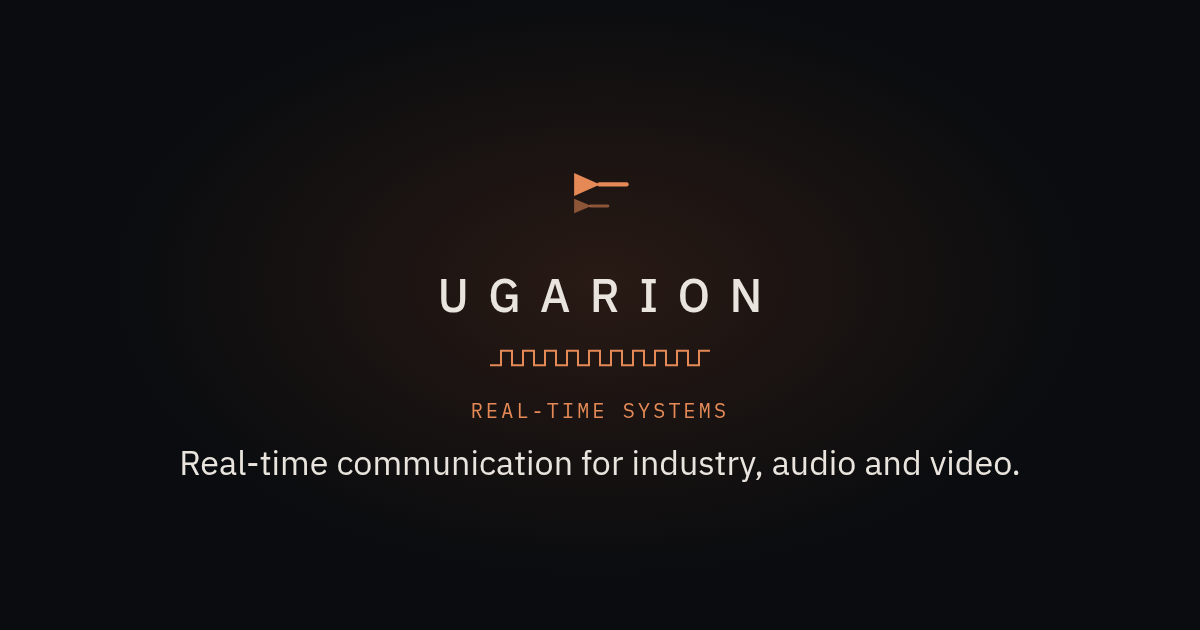
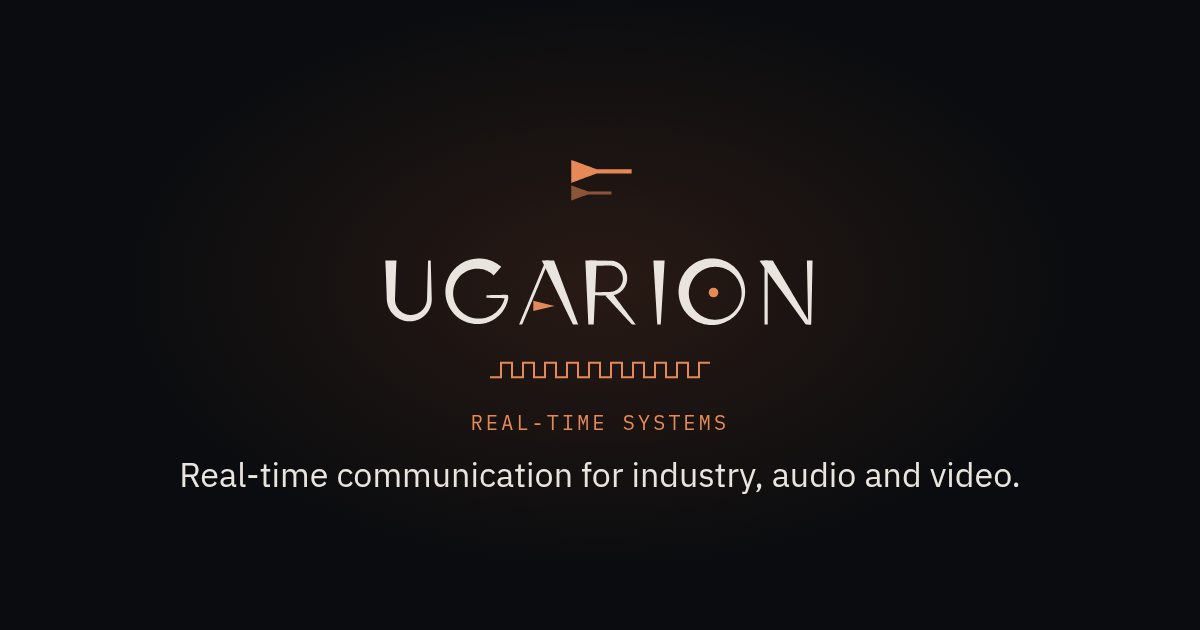
New brand: Keilschrift wordmark and two-wedge symbol
Wordmark and symbol from 08_Marke (inline SVG on the holding page,
wordmark.svg on legal pages), favicon, 404 page and og.png updated.

diff --git a/index.html b/index.html
@@ -22,8 +22,8 @@
 <main class="stage">
   <div class="card wide">
     <p class="launch">New website · coming soon</p>
-    <svg class="mark" viewBox="0 0 64 64" aria-hidden="true"><path d="M14 18 L32 26 L14 34 Z" fill="#e58a57"/><rect x="30" y="24.5" width="22" height="3" rx="1.5" fill="#e58a57"/><path d="M14 36 L26 41 L14 46 Z" fill="#e58a57" opacity=".55"/><rect x="24.5" y="40" width="14" height="2" rx="1" fill="#e58a57" opacity=".55"/></svg>
-    <h1 class="word">UGARION</h1>
+    <svg class="mark" viewBox="0 0 64 64" aria-hidden="true"><path d="M12.00 34.00 L13.05 33.61 L14.10 33.23 L15.15 32.84 L16.20 32.45 L17.25 32.07 L18.30 31.68 L19.35 31.29 L20.40 30.90 L21.45 30.52 L22.50 30.13 L23.55 29.74 L24.60 29.36 L25.65 28.97 L26.70 28.58 L27.75 28.20 L28.80 27.81 L29.85 27.50 L30.90 27.50 L31.95 27.50 L33.00 27.50 L34.05 27.50 L35.10 27.50 L36.15 27.50 L37.20 27.50 L38.25 27.50 L39.30 27.50 L40.35 27.50 L41.40 27.50 L42.45 27.50 L43.50 27.50 L44.55 27.50 L45.60 27.50 L46.65 27.50 L47.70 27.50 L48.75 27.50 L49.80 27.50 L50.85 27.50 L51.90 27.50 L52.95 27.50 L54.00 27.50 L54.00 24.50 L52.95 24.50 L51.90 24.50 L50.85 24.50 L49.80 24.50 L48.75 24.50 L47.70 24.50 L46.65 24.50 L45.60 24.50 L44.55 24.50 L43.50 24.50 L42.45 24.50 L41.40 24.50 L40.35 24.50 L39.30 24.50 L38.25 24.50 L37.20 24.50 L36.15 24.50 L35.10 24.50 L34.05 24.50 L33.00 24.50 L31.95 24.50 L30.90 24.50 L29.85 24.50 L28.80 24.19 L27.75 23.80 L26.70 23.42 L25.65 23.03 L24.60 22.64 L23.55 22.26 L22.50 21.87 L21.45 21.48 L20.40 21.10 L19.35 20.71 L18.30 20.32 L17.25 19.93 L16.20 19.55 L15.15 19.16 L14.10 18.77 L13.05 18.39 L12.00 18.00 Z" fill="#e58a57"/><path d="M12.00 46.25 L12.70 46.00 L13.40 45.74 L14.10 45.49 L14.80 45.24 L15.50 44.99 L16.20 44.73 L16.90 44.48 L17.60 44.23 L18.30 43.97 L19.00 43.72 L19.70 43.47 L20.40 43.21 L21.10 42.96 L21.80 42.71 L22.50 42.46 L23.20 42.20 L23.90 42.00 L24.60 42.00 L25.30 42.00 L26.00 42.00 L26.70 42.00 L27.40 42.00 L28.10 42.00 L28.80 42.00 L29.50 42.00 L30.20 42.00 L30.90 42.00 L31.60 42.00 L32.30 42.00 L33.00 42.00 L33.70 42.00 L34.40 42.00 L35.10 42.00 L35.80 42.00 L36.50 42.00 L37.20 42.00 L37.90 42.00 L38.60 42.00 L39.30 42.00 L40.00 42.00 L40.00 40.00 L39.30 40.00 L38.60 40.00 L37.90 40.00 L37.20 40.00 L36.50 40.00 L35.80 40.00 L35.10 40.00 L34.40 40.00 L33.70 40.00 L33.00 40.00 L32.30 40.00 L31.60 40.00 L30.90 40.00 L30.20 40.00 L29.50 40.00 L28.80 40.00 L28.10 40.00 L27.40 40.00 L26.70 40.00 L26.00 40.00 L25.30 40.00 L24.60 40.00 L23.90 40.00 L23.20 39.80 L22.50 39.54 L21.80 39.29 L21.10 39.04 L20.40 38.79 L19.70 38.53 L19.00 38.28 L18.30 38.03 L17.60 37.77 L16.90 37.52 L16.20 37.27 L15.50 37.01 L14.80 36.76 L14.10 36.51 L13.40 36.26 L12.70 36.00 L12.00 35.75 Z" fill="#e58a57" opacity=".55"/></svg>
+    <h1 class="word"><svg viewBox="-8 -10 686 122" class="wm" role="img" aria-label="UGARION"><defs><clipPath id="ug-cap"><rect x="-20" y="0" width="710" height="100"/></clipPath></defs><g fill="#e9e5de" clip-path="url(#ug-cap)"><path transform="translate(0.0 0)" d="M0.00 -4.00 L0.17 -1.87 L0.30 0.27 L0.41 2.40 L0.52 4.53 L0.62 6.67 L0.71 8.80 L0.81 10.93 L0.90 13.07 L0.99 15.20 L1.07 17.33 L1.16 19.47 L1.24 21.60 L1.32 23.73 L1.41 25.87 L1.49 28.00 L1.56 30.13 L1.64 32.27 L1.72 34.40 L1.79 36.53 L1.87 38.67 L1.94 40.80 L2.02 42.93 L2.09 45.07 L2.16 47.20 L2.23 49.33 L2.31 51.47 L2.38 53.60 L2.45 55.73 L2.52 57.87 L2.59 60.07 L2.69 61.90 L2.89 63.80 L3.18 65.67 L3.58 67.53 L4.07 69.36 L4.65 71.16 L5.33 72.92 L6.10 74.65 L6.95 76.33 L7.89 77.96 L8.92 79.54 L10.02 81.06 L11.20 82.51 L12.45 83.90 L13.77 85.23 L15.16 86.48 L16.61 87.65 L18.11 88.75 L19.67 89.76 L21.28 90.69 L22.93 91.54 L24.62 92.29 L26.35 92.96 L28.11 93.53 L29.89 94.01 L31.69 94.39 L33.51 94.68 L35.33 94.88 L37.17 94.98 L39.00 94.98 L40.83 94.89 L42.65 94.70 L44.45 94.41 L46.24 94.04 L47.99 93.57 L49.73 93.01 L51.42 92.36 L53.08 91.63 L54.70 90.81 L56.27 89.90 L57.78 88.92 L59.24 87.86 L60.65 86.73 L61.99 85.53 L63.26 84.26 L64.47 82.93 L65.60 81.54 L66.65 80.09 L67.63 78.59 L68.53 77.05 L69.34 75.46 L70.07 73.83 L70.71 72.17 L71.26 70.48 L71.72 68.77 L72.10 67.03 L72.38 65.29 L72.57 63.53 L72.66 61.76 L72.67 60.04 L72.61 57.87 L72.55 55.73 L72.49 53.60 L72.44 51.47 L72.38 49.33 L72.32 47.20 L72.27 45.07 L72.21 42.93 L72.15 40.80 L72.10 38.67 L72.04 36.53 L71.99 34.40 L71.93 32.27 L71.87 30.13 L71.82 28.00 L71.76 25.87 L71.71 23.73 L71.65 21.60 L71.60 19.47 L71.54 17.33 L71.49 15.20 L71.43 13.07 L71.38 10.93 L71.32 8.80 L71.27 6.67 L71.22 4.53 L71.16 2.40 L71.11 0.27 L71.05 -1.87 L71.00 -4.00 L67.00 -4.00 L66.95 -1.87 L66.89 0.27 L66.84 2.40 L66.78 4.53 L66.73 6.67 L66.68 8.80 L66.62 10.93 L66.57 13.07 L66.51 15.20 L66.46 17.33 L66.40 19.47 L66.35 21.60 L66.29 23.73 L66.24 25.87 L66.18 28.00 L66.13 30.13 L66.07 32.27 L66.01 34.40 L65.96 36.53 L65.90 38.67 L65.85 40.80 L65.79 42.93 L65.73 45.07 L65.68 47.20 L65.62 49.33 L65.56 51.47 L65.51 53.60 L65.45 55.73 L65.39 57.87 L65.33 59.96 L65.26 61.38 L65.11 62.74 L64.88 64.10 L64.59 65.44 L64.23 66.76 L63.80 68.06 L63.31 69.33 L62.75 70.57 L62.12 71.78 L61.44 72.95 L60.69 74.09 L59.89 75.18 L59.03 76.22 L58.12 77.22 L57.16 78.16 L56.16 79.06 L55.11 79.90 L54.02 80.68 L52.90 81.40 L51.73 82.06 L50.54 82.65 L49.32 83.19 L48.08 83.65 L46.82 84.05 L45.53 84.39 L44.24 84.65 L42.94 84.85 L41.62 84.97 L40.31 85.03 L39.00 85.02 L37.69 84.94 L36.39 84.79 L35.11 84.58 L33.84 84.29 L32.58 83.95 L31.35 83.53 L30.15 83.06 L28.97 82.52 L27.83 81.92 L26.72 81.27 L25.65 80.56 L24.62 79.79 L23.63 78.98 L22.69 78.11 L21.80 77.20 L20.96 76.24 L20.17 75.25 L19.44 74.21 L18.76 73.14 L18.14 72.04 L17.59 70.91 L17.09 69.76 L16.65 68.58 L16.28 67.38 L15.98 66.17 L15.73 64.95 L15.56 63.71 L15.44 62.48 L15.40 61.24 L15.41 59.93 L15.48 57.87 L15.55 55.73 L15.62 53.60 L15.69 51.47 L15.77 49.33 L15.84 47.20 L15.91 45.07 L15.98 42.93 L16.06 40.80 L16.13 38.67 L16.21 36.53 L16.28 34.40 L16.36 32.27 L16.44 30.13 L16.51 28.00 L16.59 25.87 L16.68 23.73 L16.76 21.60 L16.84 19.47 L16.93 17.33 L17.01 15.20 L17.10 13.07 L17.19 10.93 L17.29 8.80 L17.38 6.67 L17.48 4.53 L17.59 2.40 L17.70 0.27 L17.83 -1.87 L18.00 -4.00 Z"/><path transform="translate(208.0 0)" d="M36.03 -0.45 L37.75 3.08 L39.46 6.61 L41.18 10.14 L42.89 13.66 L44.61 17.19 L46.32 20.72 L48.04 24.25 L49.75 27.77 L51.47 31.30 L53.18 34.83 L54.90 38.36 L56.61 41.88 L58.33 45.41 L60.04 48.94 L61.76 52.47 L63.47 55.99 L65.19 59.52 L66.90 63.05 L68.62 66.58 L70.33 70.11 L72.05 73.63 L73.76 77.16 L75.48 80.69 L77.19 84.22 L78.91 87.74 L80.62 91.27 L82.34 94.80 L84.05 98.33 L85.77 101.85 L87.48 105.38 L93.92 102.62 L92.54 98.95 L91.16 95.27 L89.78 91.60 L88.40 87.93 L87.02 84.26 L85.65 80.58 L84.27 76.91 L82.89 73.24 L81.51 69.57 L80.13 65.89 L78.76 62.22 L77.38 58.55 L76.00 54.88 L74.62 51.21 L73.24 47.53 L71.86 43.86 L70.49 40.19 L69.11 36.52 L67.73 32.84 L66.35 29.17 L64.97 25.50 L63.59 21.83 L62.22 18.15 L60.84 14.48 L59.46 10.81 L58.08 7.14 L56.70 3.46 L55.33 -0.21 L53.95 -3.88 L52.57 -7.55 Z"/><path transform="translate(208.0 0)" d="M43.62 -2.86 L41.42 2.44 L39.21 7.74 L37.01 13.04 L34.80 18.34 L32.60 23.64 L30.39 28.94 L28.19 34.24 L25.98 39.54 L23.78 44.84 L21.57 50.14 L19.37 55.44 L17.16 60.74 L14.96 66.04 L12.75 71.34 L10.55 76.64 L8.34 81.94 L6.14 87.24 L3.93 92.54 L1.73 97.84 L-0.48 103.14 L3.68 104.86 L5.88 99.56 L8.09 94.26 L10.29 88.96 L12.50 83.66 L14.70 78.36 L16.91 73.06 L19.11 67.76 L21.32 62.46 L23.52 57.16 L25.73 51.86 L27.93 46.56 L30.14 41.26 L32.34 35.96 L34.55 30.66 L36.75 25.36 L38.96 20.06 L41.16 14.76 L43.37 9.46 L45.57 4.16 L47.78 -1.14 Z"/><path transform="translate(312.0 0)" d="M0.00 -4.00 L0.17 -0.40 L0.33 3.20 L0.50 6.80 L0.67 10.40 L0.83 14.00 L1.00 17.60 L1.17 21.20 L1.33 24.80 L1.50 28.40 L1.67 32.00 L1.83 35.60 L2.00 39.20 L2.17 42.80 L2.33 46.40 L2.50 50.00 L2.67 53.60 L2.83 57.20 L3.00 60.80 L3.17 64.40 L3.33 68.00 L3.50 71.60 L3.67 75.20 L3.83 78.80 L4.00 82.40 L4.17 86.00 L4.33 89.60 L4.50 93.20 L4.67 96.80 L4.83 100.40 L5.00 104.00 L13.00 104.00 L13.17 100.40 L13.33 96.80 L13.50 93.20 L13.67 89.60 L13.83 86.00 L14.00 82.40 L14.17 78.80 L14.33 75.20 L14.50 71.60 L14.67 68.00 L14.83 64.40 L15.00 60.80 L15.17 57.20 L15.33 53.60 L15.50 50.00 L15.67 46.40 L15.83 42.80 L16.00 39.20 L16.17 35.60 L16.33 32.00 L16.50 28.40 L16.67 24.80 L16.83 21.20 L17.00 17.60 L17.17 14.00 L17.33 10.40 L17.50 6.80 L17.67 3.20 L17.83 -0.40 L18.00 -4.00 Z"/><path transform="translate(312.0 0)" d="M6.00 8.50 L8.67 8.46 L11.33 8.41 L14.00 8.37 L16.67 8.33 L19.33 8.28 L22.00 8.24 L24.67 8.20 L27.33 8.16 L30.00 8.11 L32.67 8.07 L35.33 8.03 L37.95 7.98 L39.26 8.00 L40.51 8.09 L41.76 8.27 L43.00 8.52 L44.22 8.85 L45.42 9.25 L46.60 9.73 L47.74 10.29 L48.84 10.91 L49.91 11.61 L50.93 12.37 L51.90 13.20 L52.82 14.08 L53.69 15.02 L54.49 16.02 L55.23 17.07 L55.90 18.16 L56.51 19.29 L57.04 20.46 L57.50 21.66 L57.88 22.89 L58.19 24.15 L58.41 25.42 L58.56 26.71 L58.62 28.00 L58.61 29.30 L58.51 30.59 L58.33 31.88 L58.07 33.15 L57.73 34.41 L57.31 35.65 L56.82 36.85 L56.24 38.03 L55.60 39.17 L54.88 40.27 L54.10 41.32 L53.25 42.32 L52.34 43.27 L51.36 44.15 L50.34 44.98 L49.26 45.74 L48.14 46.44 L46.97 47.06 L45.76 47.61 L44.52 48.08 L43.26 48.47 L41.97 48.79 L40.66 49.02 L39.33 49.17 L37.97 49.23 L35.33 49.28 L32.67 49.32 L30.00 49.36 L27.33 49.41 L24.67 49.45 L22.00 49.49 L19.33 49.53 L16.67 49.58 L14.00 49.62 L11.33 49.66 L8.67 49.71 L6.00 49.75 L6.00 54.25 L8.67 54.29 L11.33 54.34 L14.00 54.38 L16.67 54.42 L19.33 54.47 L22.00 54.51 L24.67 54.55 L27.33 54.59 L30.00 54.64 L32.67 54.68 L35.33 54.72 L38.03 54.77 L39.68 54.74 L41.36 54.60 L43.03 54.36 L44.68 54.02 L46.31 53.57 L47.91 53.02 L49.47 52.37 L50.99 51.63 L52.46 50.78 L53.88 49.85 L55.23 48.83 L56.52 47.72 L57.74 46.54 L58.89 45.28 L59.95 43.95 L60.93 42.55 L61.82 41.09 L62.62 39.58 L63.32 38.02 L63.92 36.42 L64.42 34.78 L64.82 33.12 L65.11 31.42 L65.30 29.72 L65.38 28.00 L65.35 26.28 L65.21 24.56 L64.96 22.86 L64.61 21.17 L64.15 19.50 L63.59 17.87 L62.92 16.27 L62.16 14.72 L61.30 13.21 L60.34 11.77 L59.30 10.38 L58.17 9.06 L56.96 7.81 L55.67 6.64 L54.31 5.56 L52.88 4.56 L51.39 3.65 L49.84 2.83 L48.25 2.12 L46.61 1.50 L44.93 0.99 L43.23 0.58 L41.50 0.29 L39.76 0.10 L38.05 0.02 L35.33 -0.03 L32.67 -0.07 L30.00 -0.11 L27.33 -0.16 L24.67 -0.20 L22.00 -0.24 L19.33 -0.28 L16.67 -0.33 L14.00 -0.37 L11.33 -0.41 L8.67 -0.46 L6.00 -0.50 Z"/><path transform="translate(312.0 0)" d="M31.77 55.52 L33.69 57.59 L35.61 59.67 L37.52 61.74 L39.44 63.81 L41.35 65.89 L43.27 67.96 L45.19 70.03 L47.10 72.11 L49.02 74.18 L50.94 76.25 L52.85 78.33 L54.77 80.40 L56.68 82.47 L58.60 84.55 L60.52 86.62 L62.43 88.69 L64.35 90.77 L66.27 92.84 L68.18 94.91 L70.10 96.99 L72.01 99.06 L73.93 101.13 L75.85 103.21 L77.76 105.28 L80.84 102.72 L79.14 100.46 L77.45 98.20 L75.76 95.94 L74.07 93.68 L72.38 91.42 L70.68 89.16 L68.99 86.90 L67.30 84.64 L65.61 82.38 L63.92 80.12 L62.22 77.86 L60.53 75.60 L58.84 73.34 L57.15 71.08 L55.46 68.82 L53.76 66.56 L52.07 64.30 L50.38 62.04 L48.69 59.78 L46.99 57.52 L45.30 55.26 L43.61 53.00 L41.92 50.74 L40.23 48.48 Z"/><path transform="translate(418.0 0)" d="M0.00 -4.00 L0.22 -0.40 L0.43 3.20 L0.65 6.80 L0.87 10.40 L1.08 14.00 L1.30 17.60 L1.52 21.20 L1.73 24.80 L1.95 28.40 L2.17 32.00 L2.38 35.60 L2.60 39.20 L2.82 42.80 L3.03 46.40 L3.25 50.00 L3.47 53.60 L3.68 57.20 L3.90 60.80 L4.12 64.40 L4.33 68.00 L4.55 71.60 L4.77 75.20 L4.98 78.80 L5.20 82.40 L5.42 86.00 L5.63 89.60 L5.85 93.20 L6.07 96.80 L6.28 100.40 L6.50 104.00 L11.50 104.00 L11.72 100.40 L11.93 96.80 L12.15 93.20 L12.37 89.60 L12.58 86.00 L12.80 82.40 L13.02 78.80 L13.23 75.20 L13.45 71.60 L13.67 68.00 L13.88 64.40 L14.10 60.80 L14.32 57.20 L14.53 53.60 L14.75 50.00 L14.97 46.40 L15.18 42.80 L15.40 39.20 L15.62 35.60 L15.83 32.00 L16.05 28.40 L16.27 24.80 L16.48 21.20 L16.70 17.60 L16.92 14.00 L17.13 10.40 L17.35 6.80 L17.57 3.20 L17.78 -0.40 L18.00 -4.00 Z"/><path transform="translate(586.0 0)" d="M5.50 -4.00 L5.50 1.40 L5.50 6.80 L5.50 12.20 L5.50 17.60 L5.50 23.00 L5.50 28.40 L5.50 33.80 L5.50 39.20 L5.50 44.60 L5.50 50.00 L5.50 55.40 L5.50 60.80 L5.50 66.20 L5.50 71.60 L5.50 77.00 L5.50 82.40 L5.50 87.80 L5.50 93.20 L5.50 98.60 L5.50 104.00 L10.50 104.00 L10.50 98.60 L10.50 93.20 L10.50 87.80 L10.50 82.40 L10.50 77.00 L10.50 71.60 L10.50 66.20 L10.50 60.80 L10.50 55.40 L10.50 50.00 L10.50 44.60 L10.50 39.20 L10.50 33.80 L10.50 28.40 L10.50 23.00 L10.50 17.60 L10.50 12.20 L10.50 6.80 L10.50 1.40 L10.50 -4.00 Z"/><path transform="translate(586.0 0)" d="M-2.11 0.95 L0.43 4.44 L2.97 7.93 L5.51 11.42 L8.05 14.91 L10.59 18.40 L13.13 21.89 L15.67 25.38 L18.21 28.87 L20.75 32.36 L23.29 35.85 L25.83 39.34 L28.37 42.83 L30.91 46.32 L33.45 49.81 L35.99 53.30 L38.53 56.79 L41.07 60.28 L43.61 63.77 L46.15 67.26 L48.69 70.75 L51.23 74.24 L53.77 77.73 L56.31 81.22 L58.85 84.71 L61.39 88.20 L63.93 91.69 L66.47 95.18 L69.01 98.67 L71.56 102.16 L74.10 105.65 L79.10 102.35 L76.90 98.64 L74.69 94.93 L72.49 91.22 L70.28 87.51 L68.07 83.80 L65.87 80.09 L63.66 76.38 L61.45 72.67 L59.25 68.96 L57.04 65.25 L54.83 61.54 L52.63 57.83 L50.42 54.12 L48.22 50.41 L46.01 46.70 L43.80 42.99 L41.60 39.28 L39.39 35.57 L37.18 31.86 L34.98 28.15 L32.77 24.44 L30.56 20.73 L28.36 17.02 L26.15 13.31 L23.95 9.60 L21.74 5.89 L19.53 2.18 L17.33 -1.53 L15.12 -5.24 L12.91 -8.95 Z"/><path transform="translate(586.0 0)" d="M71.50 -4.00 L71.61 1.40 L71.72 6.80 L71.84 12.20 L71.95 17.60 L72.06 23.00 L72.17 28.40 L72.29 33.80 L72.40 39.20 L72.51 44.60 L72.62 50.00 L72.74 55.40 L72.85 60.80 L72.96 66.20 L73.08 71.60 L73.19 77.00 L73.30 82.40 L73.41 87.80 L73.53 93.20 L73.64 98.60 L73.75 104.00 L78.25 104.00 L78.36 98.60 L78.47 93.20 L78.59 87.80 L78.70 82.40 L78.81 77.00 L78.92 71.60 L79.04 66.20 L79.15 60.80 L79.26 55.40 L79.38 50.00 L79.49 44.60 L79.60 39.20 L79.71 33.80 L79.83 28.40 L79.94 23.00 L80.05 17.60 L80.16 12.20 L80.28 6.80 L80.39 1.40 L80.50 -4.00 Z"/></g><g fill="#e9e5de"><path transform="translate(96.0 0)" d="M85.01 9.76 L83.54 8.59 L81.91 7.36 L80.23 6.19 L78.52 5.09 L76.77 4.05 L74.98 3.08 L73.16 2.18 L71.31 1.35 L69.43 0.58 L67.52 -0.10 L65.59 -0.72 L63.64 -1.26 L61.68 -1.73 L59.70 -2.13 L57.71 -2.44 L55.71 -2.69 L53.70 -2.85 L51.70 -2.94 L49.69 -2.96 L47.68 -2.90 L45.68 -2.76 L43.69 -2.55 L41.71 -2.26 L39.74 -1.90 L37.79 -1.47 L35.86 -0.96 L33.95 -0.38 L32.07 0.27 L30.22 0.99 L28.39 1.78 L26.60 2.64 L24.84 3.57 L23.12 4.56 L21.45 5.61 L19.81 6.72 L18.22 7.90 L16.67 9.13 L15.18 10.42 L13.73 11.76 L12.34 13.16 L11.01 14.60 L9.73 16.10 L8.50 17.64 L7.34 19.22 L6.25 20.85 L5.21 22.52 L4.24 24.22 L3.33 25.95 L2.50 27.72 L1.73 29.51 L1.03 31.34 L0.39 33.18 L-0.17 35.05 L-0.65 36.93 L-1.07 38.83 L-1.41 40.75 L-1.68 42.67 L-1.88 44.60 L-2.01 46.54 L-2.06 48.47 L-2.03 50.41 L-1.94 52.34 L-1.77 54.26 L-1.53 56.18 L-1.22 58.08 L-0.83 59.97 L-0.38 61.84 L0.15 63.69 L0.75 65.52 L1.41 67.32 L2.14 69.10 L2.94 70.84 L3.80 72.55 L4.72 74.23 L5.71 75.87 L6.76 77.46 L7.86 79.02 L9.02 80.53 L10.24 82.00 L11.51 83.42 L12.84 84.78 L14.21 86.10 L15.63 87.36 L17.10 88.56 L18.61 89.71 L20.16 90.80 L21.75 91.83 L23.37 92.79 L25.03 93.70 L26.73 94.53 L28.45 95.31 L30.19 96.02 L31.97 96.66 L33.76 97.23 L35.57 97.73 L37.40 98.16 L39.24 98.53 L41.09 98.82 L42.95 99.05 L44.82 99.20 L46.69 99.28 L48.56 99.29 L50.42 99.23 L52.29 99.10 L54.14 98.90 L55.98 98.63 L57.81 98.29 L59.63 97.88 L61.42 97.40 L63.20 96.86 L64.95 96.25 L66.68 95.57 L68.37 94.83 L70.04 94.03 L71.67 93.16 L73.27 92.24 L74.83 91.25 L76.36 90.21 L77.84 89.11 L79.27 87.96 L80.66 86.75 L82.00 85.50 L83.30 84.19 L84.54 82.84 L85.72 81.44 L86.86 80.01 L87.93 78.53 L88.95 77.01 L89.91 75.45 L90.81 73.86 L91.65 72.24 L92.43 70.59 L93.14 68.92 L93.79 67.22 L94.37 65.50 L94.88 63.75 L95.33 61.99 L95.72 60.22 L96.03 58.44 L95.62 54.45 L91.81 53.56 L90.05 53.60 L88.30 53.64 L86.55 53.69 L84.79 53.73 L83.04 53.77 L81.29 53.81 L79.53 53.85 L77.78 53.89 L76.03 53.93 L74.27 53.97 L72.52 54.01 L70.77 54.06 L69.01 54.10 L67.26 54.14 L65.51 54.18 L63.75 54.22 L62.00 54.26 L62.00 58.26 L63.75 58.30 L65.51 58.34 L67.26 58.38 L69.01 58.42 L70.77 58.46 L72.52 58.51 L74.27 58.55 L76.03 58.59 L77.78 58.63 L79.53 58.67 L81.29 58.71 L83.04 58.75 L84.79 58.79 L86.55 58.83 L88.30 58.88 L90.05 58.92 L91.80 58.96 L91.51 58.07 L90.56 57.46 L90.20 59.02 L89.79 60.56 L89.33 62.09 L88.80 63.59 L88.22 65.08 L87.58 66.54 L86.89 67.97 L86.15 69.37 L85.35 70.75 L84.51 72.09 L83.61 73.39 L82.67 74.67 L81.67 75.90 L80.64 77.09 L79.56 78.24 L78.44 79.35 L77.28 80.42 L76.08 81.43 L74.84 82.41 L73.57 83.33 L72.27 84.20 L70.93 85.02 L69.57 85.80 L68.18 86.51 L66.77 87.18 L65.33 87.78 L63.87 88.34 L62.39 88.84 L60.90 89.28 L59.39 89.66 L57.87 89.98 L56.35 90.25 L54.81 90.46 L53.27 90.61 L51.72 90.70 L50.18 90.73 L48.63 90.71 L47.09 90.62 L45.56 90.48 L44.03 90.28 L42.52 90.02 L41.01 89.70 L39.53 89.33 L38.05 88.91 L36.60 88.42 L35.17 87.89 L33.76 87.30 L32.37 86.65 L31.02 85.96 L29.69 85.22 L28.39 84.42 L27.12 83.58 L25.89 82.69 L24.69 81.76 L23.53 80.78 L22.41 79.77 L21.33 78.71 L20.30 77.61 L19.30 76.47 L18.35 75.30 L17.45 74.10 L16.60 72.86 L15.79 71.59 L15.03 70.30 L14.32 68.97 L13.67 67.63 L13.07 66.26 L12.52 64.87 L12.02 63.46 L11.58 62.04 L11.19 60.60 L10.86 59.15 L10.58 57.69 L10.36 56.22 L10.19 54.75 L10.09 53.27 L10.03 51.79 L10.04 50.31 L10.10 48.84 L10.21 47.37 L10.38 45.90 L10.61 44.45 L10.89 43.01 L11.23 41.58 L11.62 40.16 L12.06 38.77 L12.55 37.39 L13.10 36.03 L13.69 34.70 L14.34 33.39 L15.03 32.11 L15.77 30.86 L16.56 29.64 L17.39 28.45 L18.27 27.30 L19.19 26.18 L20.14 25.09 L21.14 24.05 L22.18 23.04 L23.25 22.08 L24.36 21.16 L25.49 20.28 L26.66 19.45 L27.86 18.66 L29.09 17.93 L30.34 17.23 L31.62 16.59 L32.92 16.00 L34.24 15.46 L35.57 14.97 L36.92 14.53 L38.29 14.14 L39.67 13.81 L41.06 13.53 L42.45 13.30 L43.86 13.13 L45.26 13.00 L46.67 12.94 L48.08 12.93 L49.48 12.97 L50.88 13.06 L52.27 13.21 L53.66 13.41 L55.03 13.66 L56.40 13.96 L57.75 14.32 L59.08 14.73 L60.39 15.18 L61.68 15.69 L62.95 16.24 L64.20 16.84 L65.42 17.49 L66.62 18.18 L67.78 18.92 L68.91 19.70 L70.01 20.53 L71.08 21.39 L72.10 22.30 L73.22 23.36 Z"/><path transform="translate(460.0 0)" d="M95.73 49.95 L95.74 51.53 L95.70 53.06 L95.60 54.58 L95.45 56.11 L95.24 57.62 L94.97 59.13 L94.64 60.63 L94.26 62.12 L93.83 63.59 L93.34 65.05 L92.79 66.48 L92.20 67.90 L91.55 69.29 L90.85 70.65 L90.10 71.99 L89.30 73.31 L88.45 74.58 L87.55 75.83 L86.61 77.04 L85.63 78.22 L84.61 79.36 L83.54 80.46 L82.43 81.51 L81.29 82.53 L80.11 83.50 L78.90 84.43 L77.65 85.31 L76.37 86.14 L75.07 86.92 L73.74 87.65 L72.38 88.34 L71.01 88.97 L69.61 89.55 L68.19 90.08 L66.76 90.56 L65.31 90.98 L63.86 91.34 L62.39 91.66 L60.91 91.92 L59.43 92.12 L57.94 92.28 L56.45 92.37 L54.97 92.42 L53.48 92.40 L52.00 92.34 L50.53 92.22 L49.06 92.05 L47.60 91.83 L46.16 91.56 L44.73 91.23 L43.32 90.86 L41.92 90.44 L40.54 89.96 L39.18 89.45 L37.85 88.88 L36.54 88.27 L35.25 87.62 L33.99 86.92 L32.76 86.18 L31.56 85.40 L30.39 84.58 L29.25 83.72 L28.15 82.83 L27.08 81.90 L26.04 80.93 L25.04 79.94 L24.08 78.91 L23.16 77.85 L22.27 76.77 L21.43 75.65 L20.62 74.52 L19.86 73.35 L19.13 72.17 L18.45 70.96 L17.81 69.74 L17.22 68.49 L16.66 67.23 L16.15 65.96 L15.69 64.67 L15.27 63.37 L14.89 62.06 L14.55 60.74 L14.26 59.41 L14.02 58.07 L13.82 56.73 L13.66 55.39 L13.55 54.04 L13.48 52.69 L13.46 51.35 L13.48 50.00 L13.54 48.66 L13.65 47.32 L13.80 45.99 L14.00 44.66 L14.23 43.34 L14.51 42.03 L14.83 40.73 L15.20 39.45 L15.60 38.17 L16.05 36.91 L16.53 35.67 L17.06 34.44 L17.62 33.23 L18.22 32.04 L18.87 30.87 L19.54 29.72 L20.26 28.59 L21.01 27.49 L21.80 26.41 L22.62 25.35 L23.48 24.32 L24.37 23.32 L25.30 22.35 L26.25 21.40 L27.24 20.49 L28.26 19.61 L29.31 18.76 L30.38 17.95 L31.48 17.17 L32.62 16.42 L33.77 15.72 L34.95 15.05 L36.16 14.41 L37.38 13.82 L38.63 13.27 L39.90 12.75 L41.18 12.28 L42.49 11.85 L43.81 11.47 L45.15 11.12 L46.49 10.83 L47.86 10.57 L49.23 10.37 L50.61 10.20 L52.00 10.09 L53.40 10.02 L54.80 10.00 L56.20 10.03 L57.61 10.11 L59.01 10.23 L60.42 10.41 L61.82 10.63 L63.21 10.90 L64.60 11.22 L65.98 11.59 L67.35 12.01 L68.71 12.48 L70.05 12.99 L71.38 13.56 L72.69 14.17 L73.98 14.83 L75.25 15.53 L76.50 16.29 L77.72 17.08 L78.91 17.93 L80.08 18.81 L81.22 19.74 L82.32 20.72 L83.40 21.73 L84.43 22.78 L85.44 23.88 L86.40 25.01 L87.32 26.18 L88.20 27.38 L89.04 28.61 L89.84 29.88 L90.59 31.18 L91.29 32.51 L91.95 33.86 L92.56 35.24 L93.11 36.64 L93.62 38.07 L94.07 39.51 L94.47 40.97 L94.82 42.45 L95.11 43.94 L95.35 45.44 L95.53 46.96 L95.66 48.48 L95.73 50.05 L101.27 49.95 L101.28 48.28 L101.24 46.56 L101.14 44.84 L100.98 43.12 L100.77 41.40 L100.50 39.69 L100.17 37.99 L99.78 36.30 L99.34 34.62 L98.84 32.95 L98.28 31.30 L97.67 29.67 L97.00 28.05 L96.28 26.46 L95.50 24.89 L94.66 23.34 L93.78 21.82 L92.84 20.33 L91.85 18.87 L90.81 17.44 L89.72 16.04 L88.57 14.68 L87.39 13.36 L86.15 12.07 L84.87 10.83 L83.54 9.63 L82.17 8.48 L80.76 7.37 L79.30 6.30 L77.81 5.29 L76.28 4.33 L74.72 3.42 L73.12 2.56 L71.49 1.76 L69.83 1.02 L68.14 0.33 L66.42 -0.30 L64.68 -0.87 L62.92 -1.37 L61.14 -1.82 L59.34 -2.20 L57.52 -2.52 L55.69 -2.78 L53.85 -2.97 L52.00 -3.09 L50.14 -3.15 L48.28 -3.14 L46.42 -3.06 L44.56 -2.92 L42.71 -2.71 L40.85 -2.43 L39.01 -2.09 L37.18 -1.68 L35.36 -1.20 L33.56 -0.66 L31.78 -0.05 L30.02 0.63 L28.28 1.37 L26.57 2.17 L24.88 3.04 L23.23 3.96 L21.61 4.95 L20.03 6.00 L18.49 7.10 L16.98 8.27 L15.52 9.48 L14.10 10.75 L12.73 12.08 L11.41 13.45 L10.13 14.87 L8.91 16.34 L7.75 17.85 L6.64 19.40 L5.59 21.00 L4.59 22.63 L3.66 24.30 L2.79 26.00 L1.98 27.73 L1.24 29.49 L0.56 31.28 L-0.05 33.09 L-0.60 34.92 L-1.07 36.77 L-1.48 38.63 L-1.82 40.51 L-2.09 42.40 L-2.29 44.29 L-2.43 46.19 L-2.49 48.10 L-2.48 50.00 L-2.40 51.90 L-2.26 53.79 L-2.04 55.68 L-1.76 57.56 L-1.41 59.42 L-0.99 61.26 L-0.50 63.09 L0.05 64.90 L0.66 66.68 L1.34 68.44 L2.08 70.17 L2.89 71.87 L3.75 73.53 L4.67 75.17 L5.65 76.76 L6.68 78.32 L7.77 79.84 L8.90 81.31 L10.09 82.74 L11.33 84.13 L12.61 85.46 L13.94 86.75 L15.31 87.99 L16.73 89.18 L18.18 90.31 L19.66 91.39 L21.19 92.41 L22.74 93.38 L24.32 94.29 L25.94 95.14 L27.58 95.94 L29.24 96.67 L30.92 97.34 L32.62 97.96 L34.34 98.51 L36.08 99.00 L37.83 99.43 L39.58 99.80 L41.35 100.11 L43.12 100.35 L44.90 100.54 L46.68 100.66 L48.45 100.72 L50.23 100.72 L52.00 100.66 L53.76 100.54 L55.52 100.36 L57.27 100.12 L59.00 99.82 L60.72 99.46 L62.43 99.05 L64.11 98.58 L65.78 98.05 L67.42 97.47 L69.05 96.84 L70.65 96.15 L72.22 95.41 L73.76 94.62 L75.28 93.78 L76.76 92.89 L78.21 91.95 L79.63 90.96 L81.01 89.93 L82.36 88.86 L83.67 87.74 L84.94 86.58 L86.17 85.39 L87.36 84.15 L88.51 82.87 L89.61 81.56 L90.67 80.21 L91.68 78.83 L92.65 77.42 L93.57 75.98 L94.44 74.51 L95.27 73.01 L96.04 71.48 L96.76 69.93 L97.44 68.36 L98.06 66.76 L98.62 65.15 L99.14 63.52 L99.60 61.87 L100.00 60.20 L100.35 58.53 L100.65 56.84 L100.89 55.14 L101.07 53.43 L101.20 51.72 L101.27 50.05 Z"/></g><g fill="#e58a57"><path transform="translate(208.0 0)" d="M23 63 L56 71 L23 79 Z"/><circle cx="512.0" cy="50" r="7.5"/></g></svg></h1>
     <svg class="signal" viewBox="0 0 600 24" preserveAspectRatio="none" aria-hidden="true"><path d="M0 20 H30 V4 H60 V20 H90 V4 H120 V20 H150 V4 H180 V20 H210 V4 H240 V20 H270 V4 H300 V20 H330 V4 H360 V20 H390 V4 H420 V20 H450 V4 H480 V20 H510 V4 H540 V20 H570 V4 H600"/></svg>
     <p class="eyebrow">Real-time systems</p>
     <p class="tagline">Real-time communication for industry, audio and video.</p>

diff --git a/404.html b/404.html
@@ -10,7 +10,7 @@
 <link rel="stylesheet" href="/assets/style.css">
 </head>
 <body>
-<main class="stage"><div class="card"><svg class="mark" viewBox="0 0 64 64" aria-hidden="true"><path d="M14 18 L32 26 L14 34 Z" fill="#e58a57"/><rect x="30" y="24.5" width="22" height="3" rx="1.5" fill="#e58a57"/><path d="M14 36 L26 41 L14 46 Z" fill="#e58a57" opacity=".55"/><rect x="24.5" y="40" width="14" height="2" rx="1" fill="#e58a57" opacity=".55"/></svg><p class="tagline">Diese Seite gibt es nicht.</p><p class="sub"><a href="/">Zur Startseite</a></p></div></main>
+<main class="stage"><div class="card"><svg class="mark" viewBox="0 0 64 64" aria-hidden="true"><path d="M12.00 34.00 L13.05 33.61 L14.10 33.23 L15.15 32.84 L16.20 32.45 L17.25 32.07 L18.30 31.68 L19.35 31.29 L20.40 30.90 L21.45 30.52 L22.50 30.13 L23.55 29.74 L24.60 29.36 L25.65 28.97 L26.70 28.58 L27.75 28.20 L28.80 27.81 L29.85 27.50 L30.90 27.50 L31.95 27.50 L33.00 27.50 L34.05 27.50 L35.10 27.50 L36.15 27.50 L37.20 27.50 L38.25 27.50 L39.30 27.50 L40.35 27.50 L41.40 27.50 L42.45 27.50 L43.50 27.50 L44.55 27.50 L45.60 27.50 L46.65 27.50 L47.70 27.50 L48.75 27.50 L49.80 27.50 L50.85 27.50 L51.90 27.50 L52.95 27.50 L54.00 27.50 L54.00 24.50 L52.95 24.50 L51.90 24.50 L50.85 24.50 L49.80 24.50 L48.75 24.50 L47.70 24.50 L46.65 24.50 L45.60 24.50 L44.55 24.50 L43.50 24.50 L42.45 24.50 L41.40 24.50 L40.35 24.50 L39.30 24.50 L38.25 24.50 L37.20 24.50 L36.15 24.50 L35.10 24.50 L34.05 24.50 L33.00 24.50 L31.95 24.50 L30.90 24.50 L29.85 24.50 L28.80 24.19 L27.75 23.80 L26.70 23.42 L25.65 23.03 L24.60 22.64 L23.55 22.26 L22.50 21.87 L21.45 21.48 L20.40 21.10 L19.35 20.71 L18.30 20.32 L17.25 19.93 L16.20 19.55 L15.15 19.16 L14.10 18.77 L13.05 18.39 L12.00 18.00 Z" fill="#e58a57"/><path d="M12.00 46.25 L12.70 46.00 L13.40 45.74 L14.10 45.49 L14.80 45.24 L15.50 44.99 L16.20 44.73 L16.90 44.48 L17.60 44.23 L18.30 43.97 L19.00 43.72 L19.70 43.47 L20.40 43.21 L21.10 42.96 L21.80 42.71 L22.50 42.46 L23.20 42.20 L23.90 42.00 L24.60 42.00 L25.30 42.00 L26.00 42.00 L26.70 42.00 L27.40 42.00 L28.10 42.00 L28.80 42.00 L29.50 42.00 L30.20 42.00 L30.90 42.00 L31.60 42.00 L32.30 42.00 L33.00 42.00 L33.70 42.00 L34.40 42.00 L35.10 42.00 L35.80 42.00 L36.50 42.00 L37.20 42.00 L37.90 42.00 L38.60 42.00 L39.30 42.00 L40.00 42.00 L40.00 40.00 L39.30 40.00 L38.60 40.00 L37.90 40.00 L37.20 40.00 L36.50 40.00 L35.80 40.00 L35.10 40.00 L34.40 40.00 L33.70 40.00 L33.00 40.00 L32.30 40.00 L31.60 40.00 L30.90 40.00 L30.20 40.00 L29.50 40.00 L28.80 40.00 L28.10 40.00 L27.40 40.00 L26.70 40.00 L26.00 40.00 L25.30 40.00 L24.60 40.00 L23.90 40.00 L23.20 39.80 L22.50 39.54 L21.80 39.29 L21.10 39.04 L20.40 38.79 L19.70 38.53 L19.00 38.28 L18.30 38.03 L17.60 37.77 L16.90 37.52 L16.20 37.27 L15.50 37.01 L14.80 36.76 L14.10 36.51 L13.40 36.26 L12.70 36.00 L12.00 35.75 Z" fill="#e58a57" opacity=".55"/></svg><p class="tagline">Diese Seite gibt es nicht.</p><p class="sub"><a href="/">Zur Startseite</a></p></div></main>
 <footer class="foot">
   <div class="row">
     <span>© 2026 Ugarion</span>

diff --git a/assets/style.css b/assets/style.css
@@ -39,7 +39,9 @@ a { color: inherit; }
 }
 .card { position: relative; text-align: center; max-width: 30rem; }
 .mark { display: block; width: 52px; height: 52px; margin: 0 auto 22px; }
-.word { font-weight: 500; font-size: 17px; letter-spacing: 0.42em; margin: 0 0 26px; padding-left: 0.42em; }
+/* Wortmarke „Keilschrift“ (08_Marke) als Inline-SVG */
+.word { margin: 0 0 24px; line-height: 0; }
+.word .wm { display: block; width: 250px; height: auto; margin: 0 auto; }
 .rule { width: 40px; height: 1px; background: var(--clay); margin: 0 auto 26px; opacity: 0.8; }
 .eyebrow { font-family: var(--mono); font-size: 11.5px; letter-spacing: 0.14em; text-transform: uppercase; color: var(--clay); margin: 0 0 14px; }
 .tagline { font-size: 19px; font-weight: 400; color: var(--text); margin: 0 0 8px; letter-spacing: -0.005em; }
@@ -92,6 +94,7 @@ a { color: inherit; }
   .launch::before { animation: none; }
 }
 @media (max-width: 560px) {
+  .word .wm { width: 210px; }
   .caps { grid-template-columns: 1fr; }
   .caps li, .caps li:nth-child(2n) { padding: 16px 0; border-left: 0; }
   .proof .n { font-size: 21px; }
@@ -111,6 +114,7 @@ a { color: inherit; }
 .legal .inner { max-width: 44rem; margin: 0 auto; }
 .legal .back { display: inline-flex; align-items: center; gap: 10px; text-decoration: none; color: var(--muted); font-size: 13px; letter-spacing: 0.3em; margin-bottom: 40px; }
 .legal .back img { width: 26px; height: 26px; }
+.legal .back img.wmi { width: 112px; height: auto; opacity: 0.85; }
 .legal h1 { font-size: 26px; font-weight: 500; margin: 0 0 28px; letter-spacing: -0.01em; }
 .legal h2 { font-size: 15px; font-weight: 500; margin: 30px 0 6px; color: var(--text); }
 .legal p, .legal address { color: #b8bec7; margin: 0 0 10px; font-style: normal; }

diff --git a/datenschutz.html b/datenschutz.html
@@ -11,7 +11,7 @@
 </head>
 <body>
 <main class="legal"><div class="inner">
-<a class="back" href="/"><img src="/assets/mark.svg" alt="">UGARION</a>
+<a class="back" href="/"><img src="/assets/mark.svg" alt=""><img class="wmi" src="/assets/wordmark.svg" alt="Ugarion"></a>
 <h1>Datenschutzerklärung</h1>
 <h2>1. Verantwortlicher</h2>
 <address>Zain Alabedin Alishammat, Ugarion<br>Notburgastraße 19, 80639 München, Deutschland<br>E-Mail: <a href="mailto:info@ugarion.com">info@ugarion.com</a></address>

diff --git a/impressum.html b/impressum.html
@@ -11,7 +11,7 @@
 </head>
 <body>
 <main class="legal"><div class="inner">
-<a class="back" href="/"><img src="/assets/mark.svg" alt="">UGARION</a>
+<a class="back" href="/"><img src="/assets/mark.svg" alt=""><img class="wmi" src="/assets/wordmark.svg" alt="Ugarion"></a>
 <h1>Impressum</h1>
 <h2>Angaben gemäß § 5 DDG</h2>
 <address>Zain Alabedin Alishammat<br>Ugarion<br>Notburgastraße 19<br>80639 München<br>Deutschland</address>
